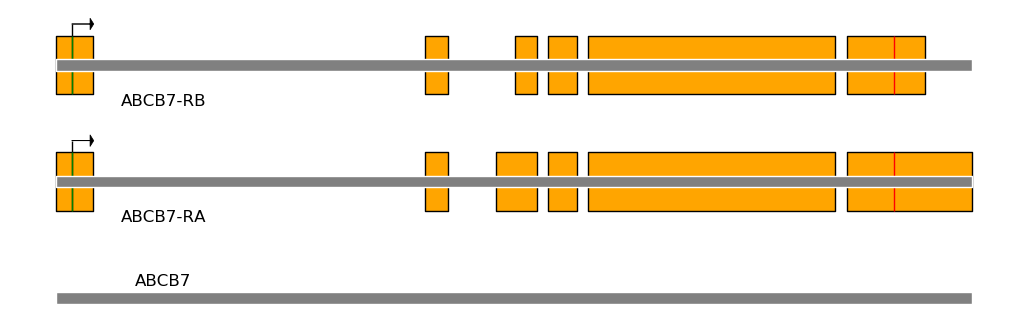
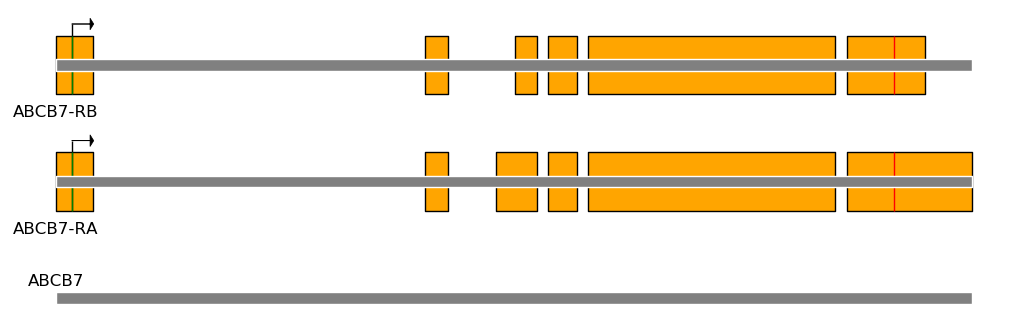
add command line arguments feature

diff --git a/gene_draw.py b/gene_draw.py
@@ -2,7 +2,9 @@ import matplotlib.pyplot as plt
 
 
 class GeneImage(object):
-    def __init__(self, gene_length, exon_intervals, ra_start_stop_codon, rb_start_stop_codon, exon_color="orange", bar_color='gray', bg_color="white", start_codon_color = "green", stop_codon_color = "red"):
+    def __init__(self, gene_name, gene_length, exon_intervals, ra_start_stop_codon, rb_start_stop_codon, exon_color="orange", bar_color='gray', bg_color="white", start_codon_color = "green", stop_codon_color = "red"):
+        self.genename = gene_name.upper()
+
         self.geneLength = gene_length
         self.ra_exons = exon_intervals[1]
         self.rb_exons = exon_intervals[2]
@@ -16,21 +18,24 @@ class GeneImage(object):
         self.stopcodoncolor = stop_codon_color
         self.startcodoncolor = start_codon_color
 
-        self.ylims = {'exon_max': 1, 'exon_min':0.5} # ori = 2 and 1
+        self.ylims = {'exon_max': 1, 'exon_min':0.5}
         self.figure, self.canvas = plt.subplots(figsize=(13,4))
         
         self.canvas.set_facecolor(self.bgColor)
         self._draw()
 
-    def _set_limits(self):
+
+    def _set_bar_limits(self):
         self.ylims['bar_min'] = self.ylims['exon_max']+0.2
         self.ylims['bar_max'] = self.ylims['bar_min']+(self.ylims['exon_max']-self.ylims['exon_min'])/5.0
         
+
     # fill the canvas with ra
     def _draw_ra_exons(self, span):
         self.canvas.fill_between(span, self.ylims['exon_min']+1.5, self.ylims['exon_max']+1.5,
                                  edgecolor='black', facecolor=self.exonColor)
         return True
+
 
     # fill the canvas with rb
     def _draw_rb_exons(self, span):
@@ -38,19 +43,21 @@ class GeneImage(object):
                                  edgecolor='black', facecolor=self.exonColor)
         return True
 
+
     # fill the canvas with RA start_codon and arrow
     def _draw_ra_start_codon(self, span):
-        # breakpoint()                                                                                 #2.6
         self.canvas.fill_between([span[0],span[0]], self.ylims['exon_min']+1.5, self.ylims['exon_max']+1.6, edgecolor='black', facecolor='black')
         self.canvas.arrow(span[0],2.6,100,0, head_width=0.1, head_length=20, linewidth=0.5, color='black')
         self.canvas.fill_between([span[1],span[1]], self.ylims['exon_min']+1.5, self.ylims['exon_max']+1.5, edgecolor=self.startcodoncolor, facecolor=self.startcodoncolor)
         return True
     
+
     # fill the canvas with RA stop_codon
     def _draw_ra_stop_codon(self, span):
         self.canvas.fill_between(span, self.ylims['exon_min']+1.5, self.ylims['exon_max']+1.5,
                                  edgecolor=self.stopcodoncolor, facecolor=self.stopcodoncolor)
         return True
+
 
     # fill the canvas with RB start_codon and arrow
     def _draw_rb_start_codon(self, span):
@@ -59,15 +66,16 @@ class GeneImage(object):
         self.canvas.fill_between([span[1],span[1]], self.ylims['exon_min']+2.5, self.ylims['exon_max']+2.5, edgecolor=self.startcodoncolor, facecolor=self.startcodoncolor)
         return True
     
+
     # fill the canvas with RB stop_codon
     def _draw_rb_stop_codon(self, span):
         self.canvas.fill_between(span, self.ylims['exon_min']+2.5, self.ylims['exon_max']+2.5,
                                  edgecolor=self.stopcodoncolor, facecolor=self.stopcodoncolor)
         return True
 
-    def _draw(self):
-        self._set_limits()
 
+    def _draw(self):
+        self._set_bar_limits()
 
         # ra_exon
         for i in range(len(self.ra_exons)):
@@ -76,14 +84,14 @@ class GeneImage(object):
         # rb_exon
         for i in range(len(self.rb_exons)):
             self._draw_rb_exons(self.rb_exons[i][1])
-
-        # RA start_stop codon
+        
         '''
-(Pdb) ra_start_stop_codon
-[('start_codon', [1618501, 1618503]), ('stop_codon', [1622987, 1622989])]
-(Pdb) rb_start_stop_codon 
-[('start_codon', [1618501, 1618503]), ('stop_codon', [1622987, 1622989])]
+        (Pdb) ra_start_stop_codon
+        [('start_codon', [1618501, 1618503]), ('stop_codon', [1622987, 1622989])]
+        (Pdb) rb_start_stop_codon 
+        [('start_codon', [1618501, 1618503]), ('stop_codon', [1622987, 1622989])]
         '''
+        # draw RA start_stop codon
         for i in self.ra_start_stop_codon:
             if i[0].endswith('start_codon'):
                 self._draw_ra_start_codon(i[1])
@@ -94,7 +102,6 @@ class GeneImage(object):
                 self._draw_rb_start_codon(j[1])
             if j[0].endswith('stop_codon'):
                 self._draw_rb_stop_codon(j[1])
-
 
         # draw gene line 
         self.canvas.fill_between([self.geneLength[0], self.geneLength[1]],
@@ -109,14 +116,15 @@ class GeneImage(object):
         self.canvas.fill_between([self.geneLength[0], self.geneLength[1]],
                                   self.ylims['bar_min']+2, self.ylims['bar_max']+2,
                                   edgecolor=self.bgColor, facecolor=self.barColor)
-        
-        self.canvas.text(1619000, 1.35, 'ABCB7', fontsize=12, ha='center')
-        self.canvas.text(1619000, 1.9, 'ABCB7-RA', fontsize=12, ha='center')
-        self.canvas.text(1619000, 2.9, 'ABCB7-RB', fontsize=12, ha='center')
+
+        self.canvas.text(self.geneLength[0], 1.35, self.genename, fontsize=12, ha='center')
+        self.canvas.text(self.geneLength[0], 1.8, self.genename + '-RA', fontsize=12, ha='center')
+        self.canvas.text(self.geneLength[0], 2.8, self.genename +'-RB', fontsize=12, ha='center')
 
         plt.axis('off')
         plt.savefig("output/test.png", bbox_inches='tight')
     
+
     def show(self):
         plt.show()
         

diff --git a/gtf.py b/gtf.py
@@ -1,5 +1,7 @@
 import gene_draw
 import numpy as np
+import sys
+
 """
 Read GFF/GTF files. Works with gzip compressed files and pandas.
     http://useast.ensembl.org/info/website/upload/gff.html
@@ -95,14 +97,16 @@ def _get_value(value):
     return value
 
 if __name__ == '__main__':
-    result = dataframe("abcb7.gtf")
+    # filename = 'abcb7.gtf'
+    filename = sys.argv[1]
+    result = dataframe(filename)
+    gene_name = filename.split('.')[0]
     # print(result)
     '''
     result.transcript_name
     '''
     gene_start = result.start[0]
     gene_end = result.end[0]
-    # for fields in result.iteritems():
     ra_exon = []
     rb_exon = []
     exon_pos =[]
@@ -110,16 +114,14 @@ if __name__ == '__main__':
     rb_start_stop_codon = []
 
     for i, (f,t_n) in enumerate(zip(result.feature, result.transcript_name)):
-        # breakpoint()
         if f == 'exon':
             to_add = [int(result.start[i]),int(result.end[i])]
             exon_pos.append(to_add)
-            # -----------------
             if t_n.endswith('RA'):
                 ra_exon.append((t_n, to_add))
             else:
                 rb_exon.append((t_n, to_add))
-            # ---------------
+                
         if f == 'start_codon' or f == 'stop_codon':
             if t_n.endswith('RA'):
                 to_add = [int(result.start[i]),int(result.end[i])]
@@ -128,7 +130,6 @@ if __name__ == '__main__':
                 to_add = [int(result.start[i]),int(result.end[i])]
                 rb_start_stop_codon.append((f, to_add))
 
-    # breakpoint()
     exon_pos = tuple(exon_pos)
     
     exon_plus_ra_rb = [exon_pos, ra_exon, rb_exon]
@@ -137,5 +138,5 @@ if __name__ == '__main__':
 
     # np.savetxt("parsed_data.txt", result.values, fmt='%s')
 
-    gene = gene_draw.GeneImage(geneLength,exon_plus_ra_rb, ra_start_stop_codon, rb_start_stop_codon)
+    gene = gene_draw.GeneImage(gene_name, geneLength,exon_plus_ra_rb, ra_start_stop_codon, rb_start_stop_codon)
     gene.show()
